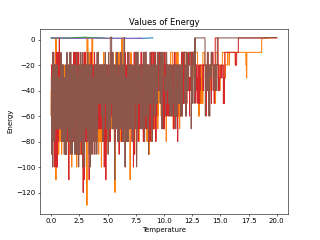
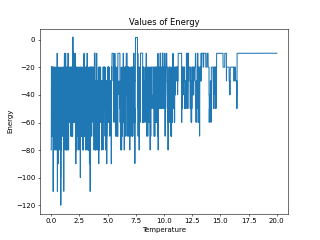
benchmark++

diff --git a/Benchmark.py b/Benchmark.py
@@ -10,10 +10,10 @@ if __name__ == '__main__':
     counter_checks = 100
     for i in range(0, counter_checks):
         start = datetime.now()
-        rl_max_reward = main_function("config3", 100, 100, 10, 0.1, 1, 0.3, 1, True, True, 1000, 10, 0.2)
+        rl_max_reward = main_function("config3", 100, 100, 10, 0.1, 1, 0.3, 1, True, True, 1000, 10, 0.2, True)
         rl_time = datetime.now() - start
         start = datetime.now()
-        as_max_energy = simulation(1, 1, 10000, 20, "config3", 100, 100, 10)
+        as_max_energy = simulation(1, 1, 10000, 20, "config3", 100, 100, 10, True)
         as_time = datetime.now() - start
         delta = as_time.total_seconds() - rl_time.total_seconds()
         delta_time_mass.append(delta)

diff --git a/LaunchRL.py b/LaunchRL.py
@@ -25,7 +25,7 @@ def main_function(name_config, h_board, w_board, grid_size, alpha, beta, gamma, 
         index_max_reward = max_rewards.index(max(max_rewards))
         if len(max_images):
             max_images[index_max_reward].save("results/MaxImage_" + config_name + "&work=" + str(work_mode) + ".png")
-        if flag_bench:
+        if not flag_bench:
             plt.plot([i for i in range(0, len(max_rewards))], max_rewards)
             plt.title("Value of Rewards")
             plt.xlabel("Episodes")

diff --git a/AnnealingSim.py b/AnnealingSim.py
@@ -149,7 +149,7 @@ def simulation(alpha, beta, count_iter, start_temperature, config_name, h_board,
     if len(max_images):
         max_images[0].save("results/Annealing_MaxImage_" + config_name + ".png")
     temperatures.reverse()
-    if flag_bench:
+    if not flag_bench:
         plt.plot(temperatures, energy_mass)
         plt.title("Values of Energy")
         plt.xlabel("Temperature")
